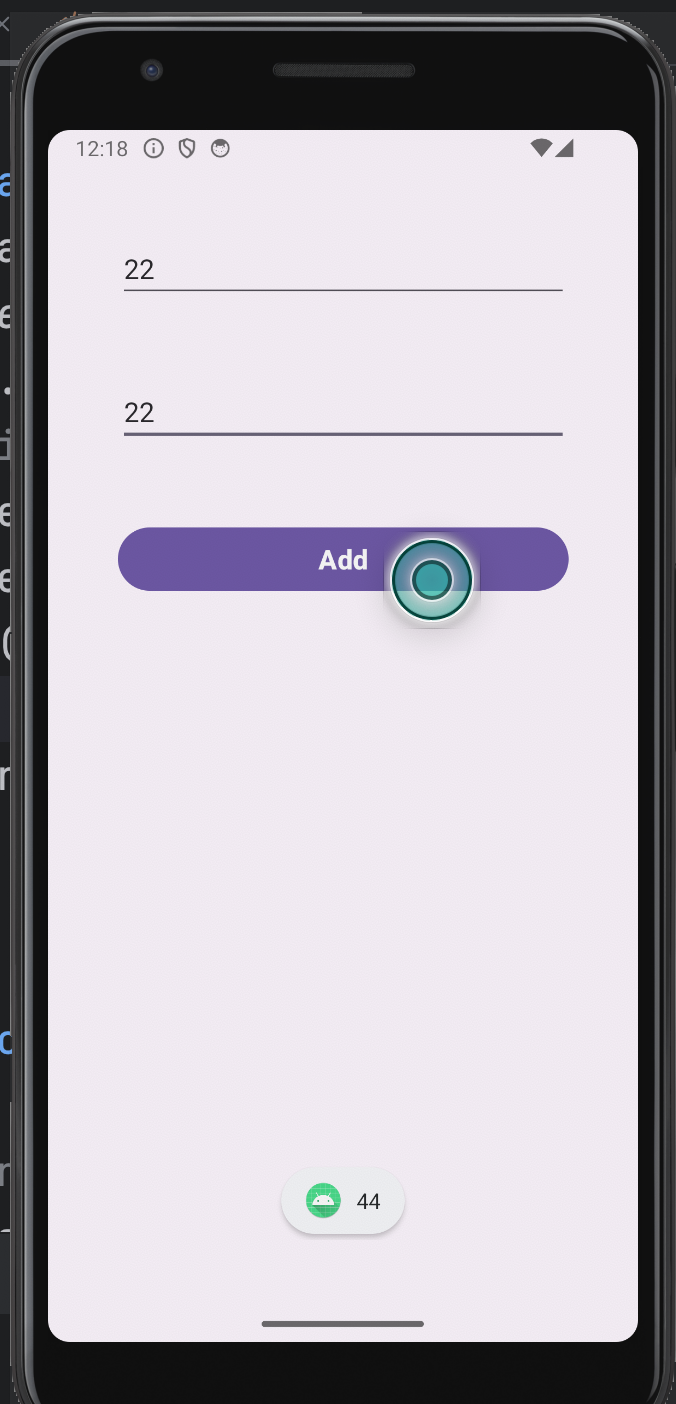
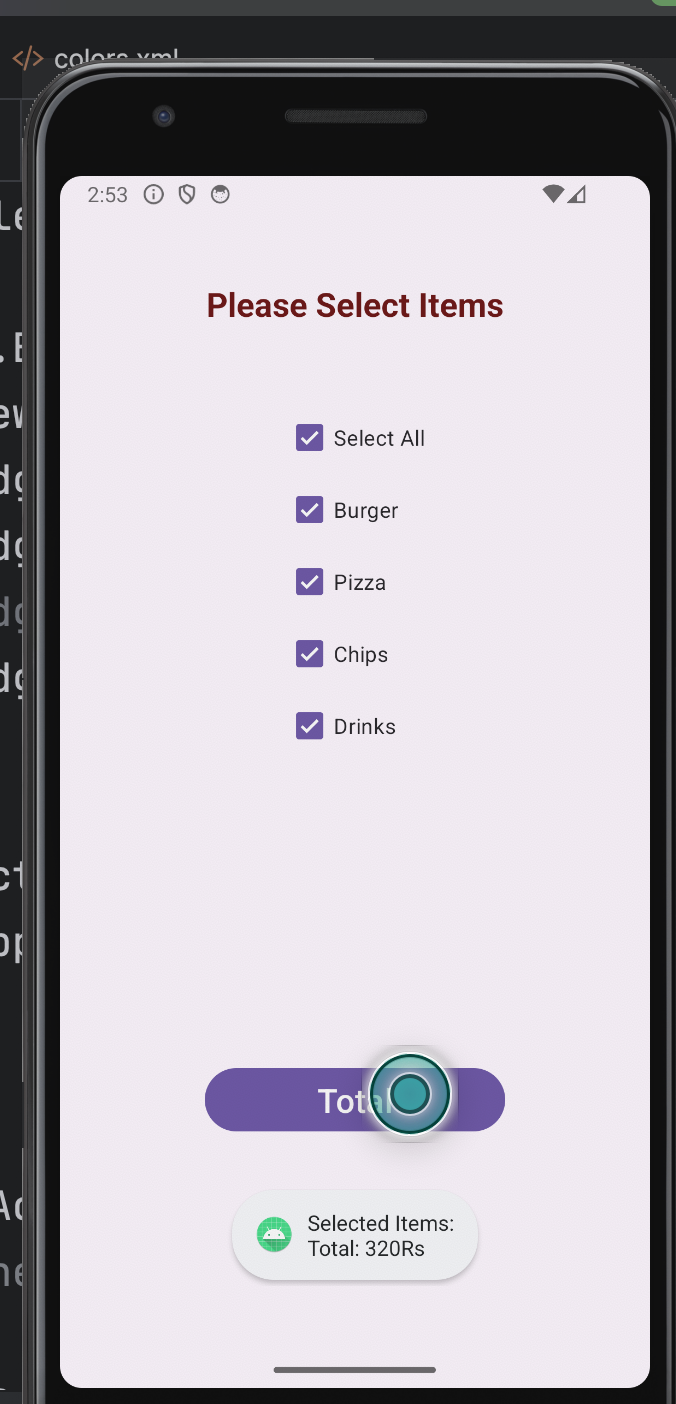
checkbox in Android

diff --git a/app/src/main/java/com/example/myapplication/MainActivity.java b/app/src/main/java/com/example/myapplication/MainActivity.java
@@ -3,8 +3,10 @@ package com.example.myapplication;
 import android.os.Bundle;
 import android.view.View;
 import android.widget.Button;
-import android.widget.EditText;
+import android.widget.CheckBox;
+import android.widget.CompoundButton;
 import android.widget.Toast;
+
 
 import androidx.activity.EdgeToEdge;
 import androidx.appcompat.app.AppCompatActivity;
@@ -12,7 +14,7 @@ import androidx.appcompat.app.AppCompatActivity;
 
 public class MainActivity extends AppCompatActivity {
     // Creating the Variable to Access the value from UI
-    private EditText editText1,editText2;
+    private CheckBox burger, pizza, chips, drinks,selectAll;
     private Button btn;
 
 
@@ -21,36 +23,60 @@ public class MainActivity extends AppCompatActivity {
         super.onCreate(savedInstanceState);
         EdgeToEdge.enable(this);
         setContentView(R.layout.activity_main);
-        // Here We are finding and assigning the value to our variable by using id
-        editText1=findViewById(R.id.et1);
-        editText2=findViewById(R.id.et2);
-        btn=findViewById(R.id.bt1);
-
-        addButtonListener();
-
+        // Call a Method to all logic
+        addListenerToButton();
     }
-    public  void addButtonListener(){
 
-    // Here we are setting a listener on our button
-        btn.setOnClickListener(new View.OnClickListener(){
+    public void addListenerToButton() {
+        burger = findViewById(R.id.cbB);
+        pizza = findViewById(R.id.cbP);
+        chips = findViewById(R.id.cbC);
+        drinks = findViewById(R.id.cbD);
+        selectAll=findViewById(R.id.cbA);
+        btn =findViewById(R.id.btn1);
 
-            @Override
-            public void onClick(View view) {
-                // here we are getting user input value
-                String value1=editText1.getText().toString();
-                String value2=editText2.getText().toString();
-                // here we are converting String into int
-                int a=Integer.parseInt(value1);
-                int b=Integer.parseInt(value2);
-                // here we are add two values
-                int sum=a+b;
-                // here we are displaying the toast message
-                Toast.makeText(getApplicationContext(),String.valueOf(sum), Toast.LENGTH_LONG).show();
-            }
-
+        selectAll.setOnCheckedChangeListener((buttonView, isChecked) -> {
+            burger.setChecked(isChecked);
+            pizza.setChecked(isChecked);
+            chips.setChecked(isChecked);
+            drinks.setChecked(isChecked);
 
         });
 
+
+
+        btn.setOnClickListener(new View.OnClickListener() {
+
+            @Override
+            public void onClick(View view) {
+                int totalamount=0;
+                StringBuilder result=new StringBuilder();
+                result.append("Selected Items:");
+                if(burger.isChecked()){
+                  //  result.append("\nBurger 120Rs");
+                    totalamount+=120;
+                }
+                if(pizza.isChecked()){
+                    //result.append("\nPizza 100Rs");
+                    totalamount+=100;
+                }
+                if(chips.isChecked()){
+                   // result.append("\nChips 50Rs");
+                    totalamount+=50;
+                }
+                if(drinks.isChecked()){
+                   // result.append("\nDrinks 60Rs");
+                    totalamount+=50;
+                }
+
+                result.append("\nTotal: "+totalamount+"Rs");
+                //Displaying the message on the toast
+                Toast.makeText(getApplicationContext(), result.toString(), Toast.LENGTH_LONG).show();
+            }
+        });
+
+
     }
+
 
 }
